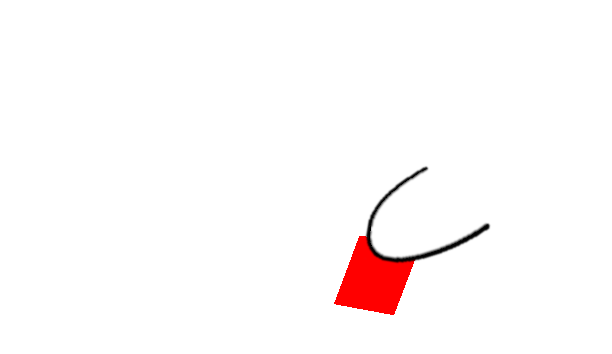
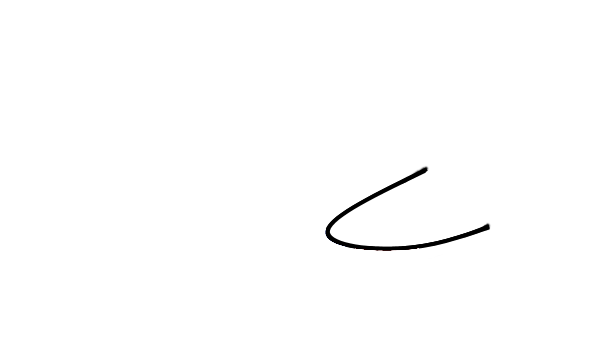
Add 7K support

Changed region(s): [[0.5278, 0.4972, 0.8072, 0.9011], [0.683, 0.4661, 0.7141, 0.4972]]

diff --git a/src/mania.cpp b/src/mania.cpp
@@ -2,43 +2,165 @@
 
 namespace mania
 {
-sf::Sprite bg, left[4], right[4];
-int left_key_value[2], right_key_value[2];
+sf::Sprite bg, left_handup, right_handup, left_hand[3], right_hand[3];
+sf::Sprite left_4K[2], right_4K[2], left_7K[4], right_7K[4];
+int left_key_value_4K[2], right_key_value_4K[2];
+int left_key_value_7K[4], right_key_value_7K[4];
+bool is_4K;
 
 bool init()
 {
     // getting configs
-    left_key_value[0] = data::cfg["mania"]["key"][0].asInt();
-    left_key_value[1] = data::cfg["mania"]["key"][1].asInt();
-    right_key_value[0] = data::cfg["mania"]["key"][2].asInt();
-    right_key_value[1] = data::cfg["mania"]["key"][3].asInt();
+    is_4K = data::cfg["mania"]["4K"].asBool();
+
+    for (int i = 0; i < 2; i++)
+        left_key_value_4K[i] = data::cfg["mania"]["key4K"][i].asInt();
+    for (int i = 0; i < 2; i++)
+        right_key_value_4K[i] = data::cfg["mania"]["key4K"][i + 2].asInt();
+
+    for (int i = 0; i < 4; i++)
+        left_key_value_7K[i] = data::cfg["mania"]["key7K"][i].asInt();
+    for (int i = 0; i < 4; i++)
+        right_key_value_7K[i] = data::cfg["mania"]["key7K"][i + 3].asInt();
 
     // importing sprites
-    bg.setTexture(data::load_texture("img/mania/bg.png"));
-    for (int i = 0; i < 4; i++)
+    left_handup.setTexture(data::load_texture("img/mania/leftup.png"));
+    right_handup.setTexture(data::load_texture("img/mania/rightup.png"));
+    for (int i = 0; i < 3; i++)
     {
-        left[i].setTexture(data::load_texture("img/mania/left" + std::to_string(i) + ".png"));
-        right[i].setTexture(data::load_texture("img/mania/right" + std::to_string(i) + ".png"));
+        left_hand[i].setTexture(data::load_texture("img/mania/left" + std::to_string(i) + ".png"));
+        right_hand[i].setTexture(data::load_texture("img/mania/right" + std::to_string(i) + ".png"));
+    }
+
+    if (is_4K)
+    {
+        bg.setTexture(data::load_texture("img/mania/4K/bg.png"));
+        for (int i = 0; i < 2; i++)
+            left_4K[i].setTexture(data::load_texture("img/mania/4K/" + std::to_string(i) + ".png"));
+        for (int i = 0; i < 2; i++)
+            right_4K[i].setTexture(data::load_texture("img/mania/4K/" + std::to_string(i + 2) + ".png"));
+    }
+    else
+    {
+        bg.setTexture(data::load_texture("img/mania/7K/bg.png"));
+        for (int i = 0; i < 4; i++)
+            left_7K[i].setTexture(data::load_texture("img/mania/7K/" + std::to_string(i) + ".png"));
+        for (int i = 0; i < 4; i++)
+            right_7K[i].setTexture(data::load_texture("img/mania/7K/" + std::to_string(i + 3) + ".png"));
     }
 
     return true;
 }
 
-void draw()
+void draw_4K()
 {
     window.draw(bg);
 
-    // 0: not pressed, 1: left, 2: right, 3: both
-    int left_state = 0;
-    for (int i = 0; i < 2; i++)
-        if (GetKeyState(left_key_value[i]) & 0x8000)
-            left_state |= (1 << i);
-    window.draw(left[left_state]);
+    int left_cnt = 0, right_cnt = 0;
+    int left_sum = 0, right_sum = 0;
 
-    int right_state = 0;
     for (int i = 0; i < 2; i++)
-        if (GetKeyState(right_key_value[i]) & 0x8000)
-            right_state |= (1 << i);
-    window.draw(right[right_state]);
+    {
+        if (GetKeyState(left_key_value_4K[i]) & 0x8000)
+        {
+            window.draw(left_4K[i]);
+            left_cnt++;
+            left_sum += i;
+        }
+        if (GetKeyState(right_key_value_4K[i]) & 0x8000)
+        {
+            window.draw(right_4K[i]);
+            right_cnt++;
+            right_sum += i;
+        }
+    }
+
+    // draw left hand
+    if (left_cnt == 0)
+        window.draw(left_handup);
+    else
+    {
+        double avg = 1.0 * left_sum / left_cnt;
+        if (avg == 0)
+            window.draw(left_hand[0]);
+        else if (avg == 0.5)
+            window.draw(left_hand[1]);
+        else
+            window.draw(left_hand[2]);
+    }
+
+    // draw right hand
+    if (right_cnt == 0)
+        window.draw(right_handup);
+    else
+    {
+        double avg = 1.0 * right_sum / right_cnt;
+        if (avg == 0)
+            window.draw(right_hand[0]);
+        else if (avg == 0.5)
+            window.draw(right_hand[1]);
+        else
+            window.draw(right_hand[2]);
+    }
+}
+
+void draw_7K()
+{
+    window.draw(bg);
+
+    int left_cnt = 0, right_cnt = 0;
+    int left_sum = 0, right_sum = 0;
+
+    for (int i = 0; i < 4; i++)
+    {
+        if (GetKeyState(left_key_value_7K[i]) & 0x8000)
+        {
+            window.draw(left_7K[i]);
+            left_cnt++;
+            left_sum += i;
+        }
+        if (GetKeyState(right_key_value_7K[i]) & 0x8000)
+        {
+            window.draw(right_7K[i]);
+            right_cnt++;
+            right_sum += i;
+        }
+    }
+
+    // draw left hand
+    if (left_cnt == 0)
+        window.draw(left_handup);
+    else
+    {
+        double avg = 1.0 * left_sum / left_cnt;
+        if (avg < 1.0)
+            window.draw(left_hand[0]);
+        else if (avg <= 2.0)
+            window.draw(left_hand[1]);
+        else
+            window.draw(left_hand[2]);
+    }
+
+    // draw right hand
+    if (right_cnt == 0)
+        window.draw(right_handup);
+    else
+    {
+        double avg = 1.0 * right_sum / right_cnt;
+        if (avg < 1.0)
+            window.draw(right_hand[0]);
+        else if (avg <= 2.0)
+            window.draw(right_hand[1]);
+        else
+            window.draw(right_hand[2]);
+    }
+}
+
+void draw()
+{   
+    if (is_4K)
+        draw_4K();
+    else
+        draw_7K();
 }
 }; // namespace mania

diff --git a/src/data.cpp b/src/data.cpp
@@ -43,7 +43,9 @@ void create_config()
         "dash": [16]
     },
     "mania": {
-        "key": [68, 70, 74, 75]
+        "4K": true,
+        "key4K": [68, 70, 74, 75],
+        "key7K": [83, 68, 70, 32, 74, 75, 76]
     }
 })V0G0N";
     std::string error;
